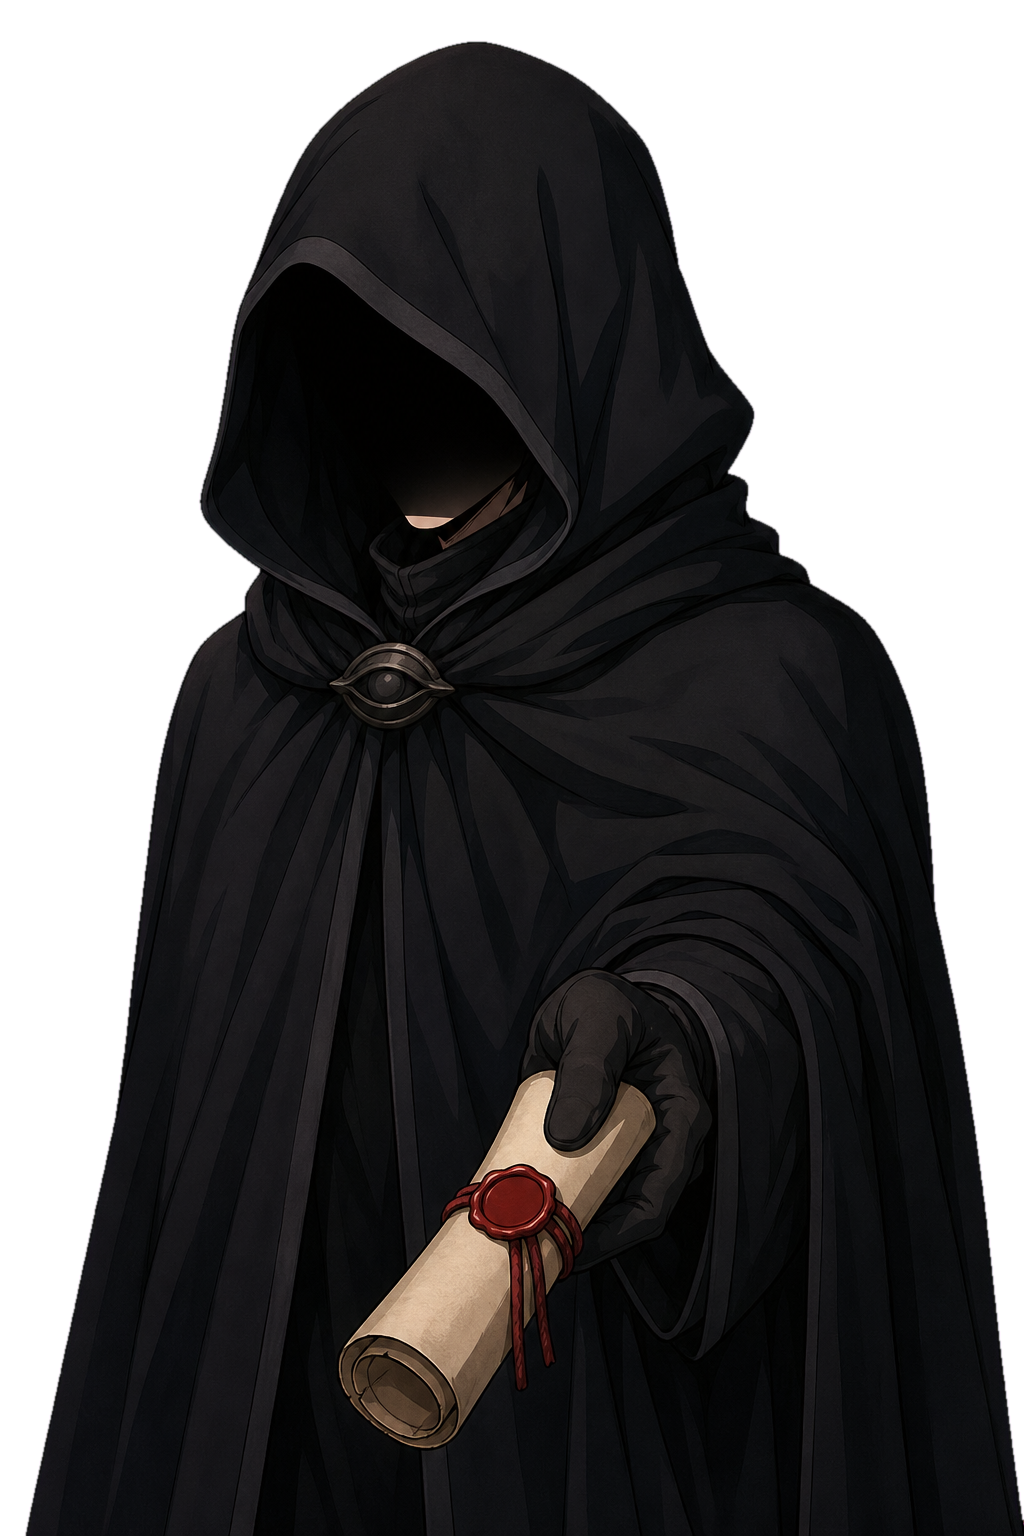
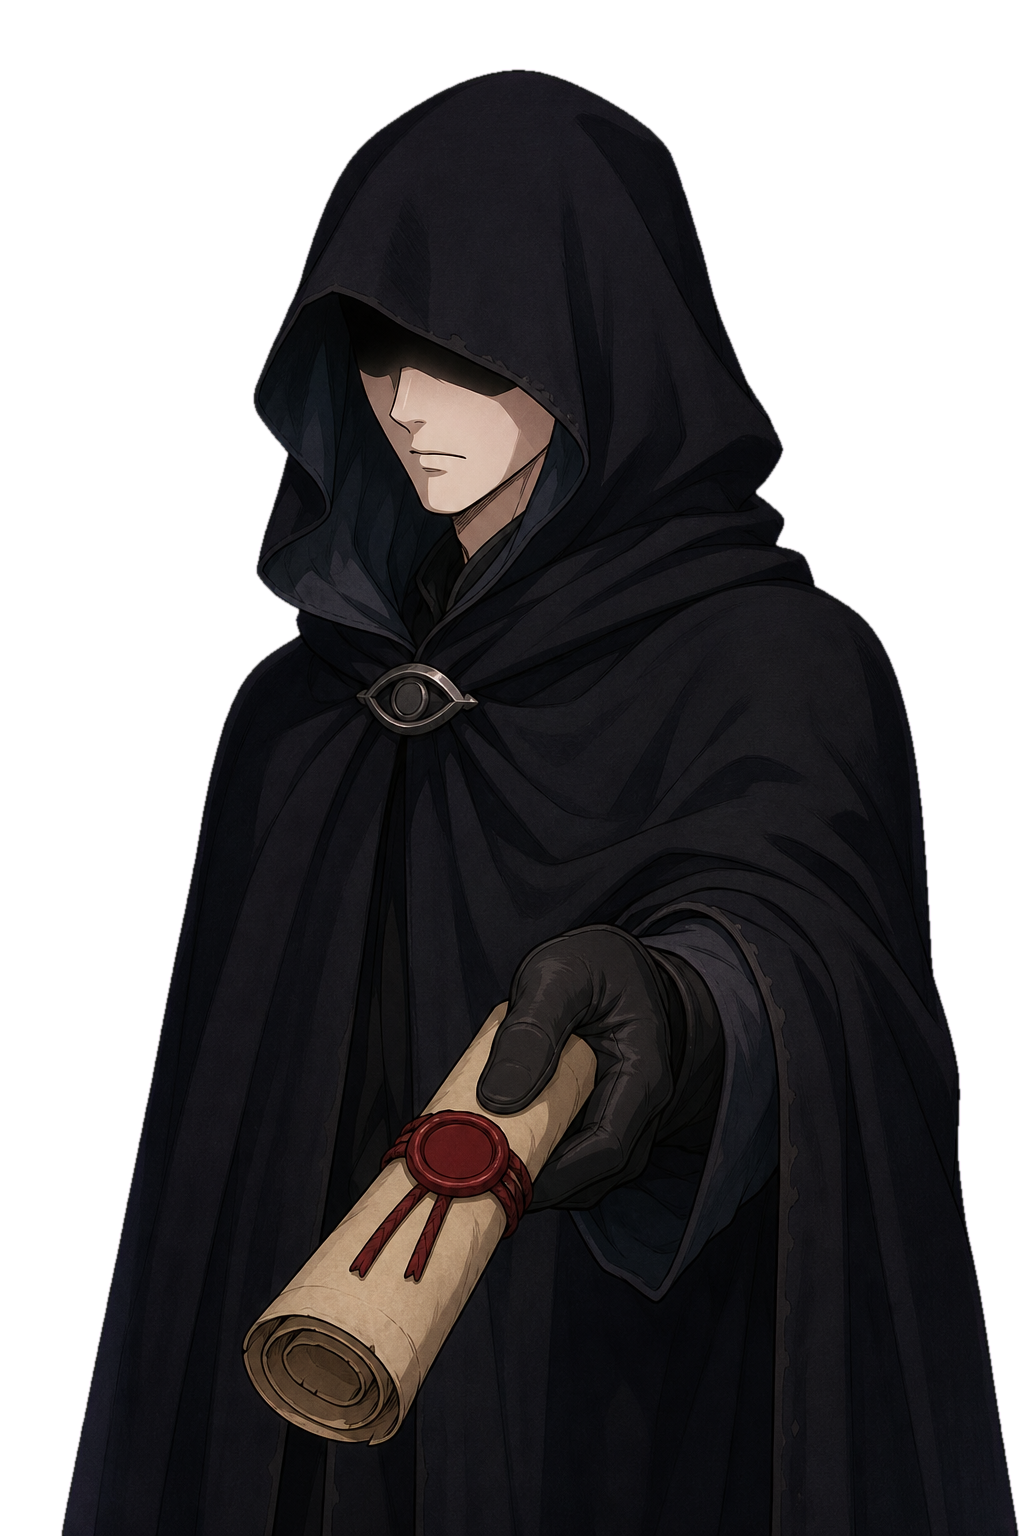
第482期 追記: 伝令を 5 番（目元だけ影・鼻と口と顎は見える）に差し替え・徴募兵は 2 番のまま（ポン 2026-11-20）。,story-all 1-1 ○

diff --git a/design/PHASE482_WATCH_LOG.md b/design/PHASE482_WATCH_LOG.md
@@ -43,7 +43,7 @@
 - **徴募兵と伝令を作り直した**（各 3 枚・見比べの絵の 4〜6 番）。
   - 徴募兵 4〜6: 藁の頭巾を深くかぶって目元が影・口元と無精ひげだけ見える・襟と腕章は王国の青。
   - 伝令 4〜6: フードの影で目元だけ見えない・鼻と口と顎は見える。
-- **決めてほしいこと: 徴募兵と伝令を 4〜6 のどれに差し替えるか**（番号をもらえば置き換える）。
+- ポンの答え（2026-11-20）: **徴募兵は 2 番のまま・伝令は 5 番**。伝令を 5 番に差し替えた（`design/art/story/伝令.png`）。徴募兵の藁の頭巾の 3 枚（4〜6）は採らない。
 - 台本: ガンの静かな絵は、場面 2 の「か、壁が厚いのはいいな。……」の 1 行にだけ当てた（`ガン:静`）。ほかのガンの行は叫んでいるので待機の絵のまま。行を足す・外すは台本の `:静` を書き換えるだけ。
 
 ## 採用した後の置き場（置くだけで出る）
